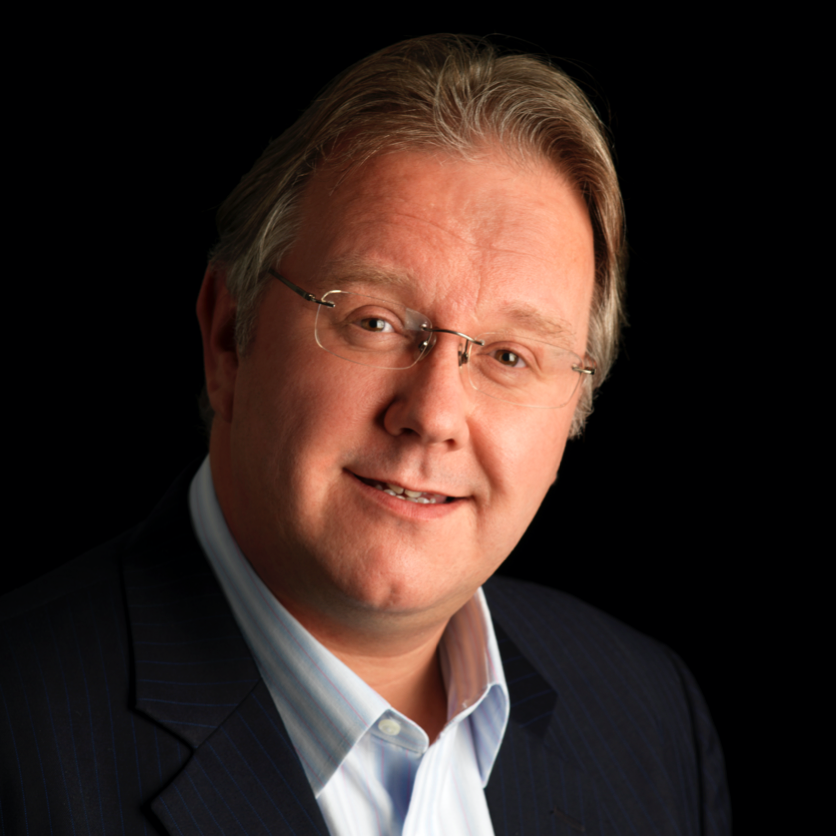
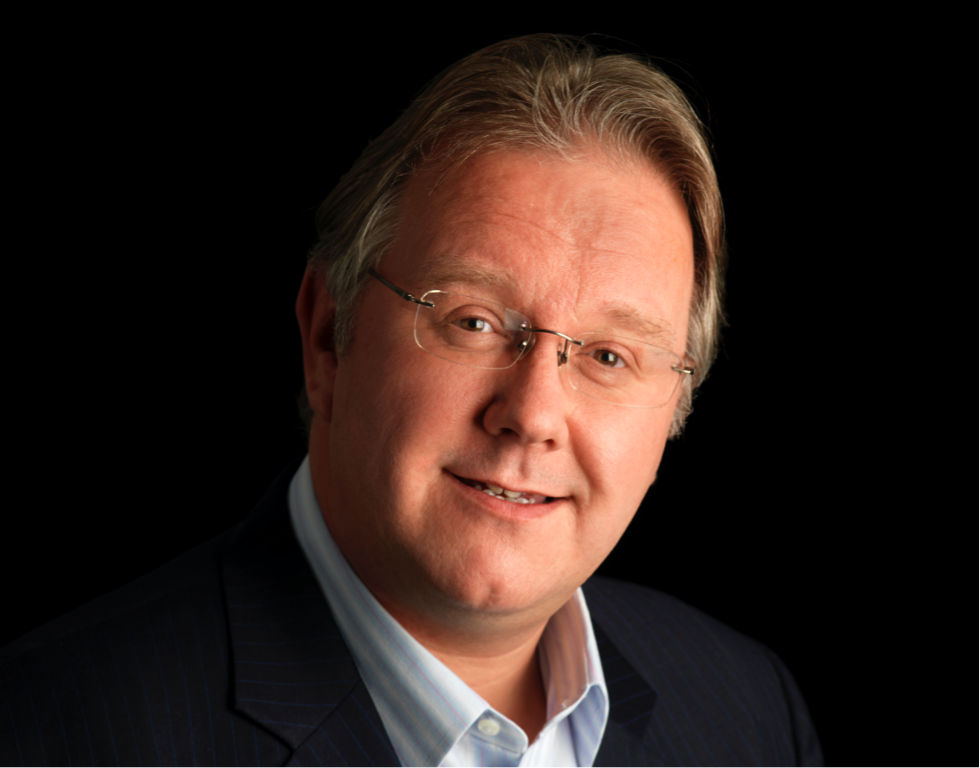
Update Pages “home”

diff --git a/src/content/pages/index.md b/src/content/pages/index.md
@@ -3,7 +3,7 @@ template: index-page
 slug: /
 title: David Seacombe
 tagline: JAMstack Developer
-featuredImage: /assets/christian-chen-kpydzvywfqg-unsplash.jpg
+featuredImage: /assets/david-seacombe.png
 cta:
   ctaText: Know more
   ctaLink: /about
